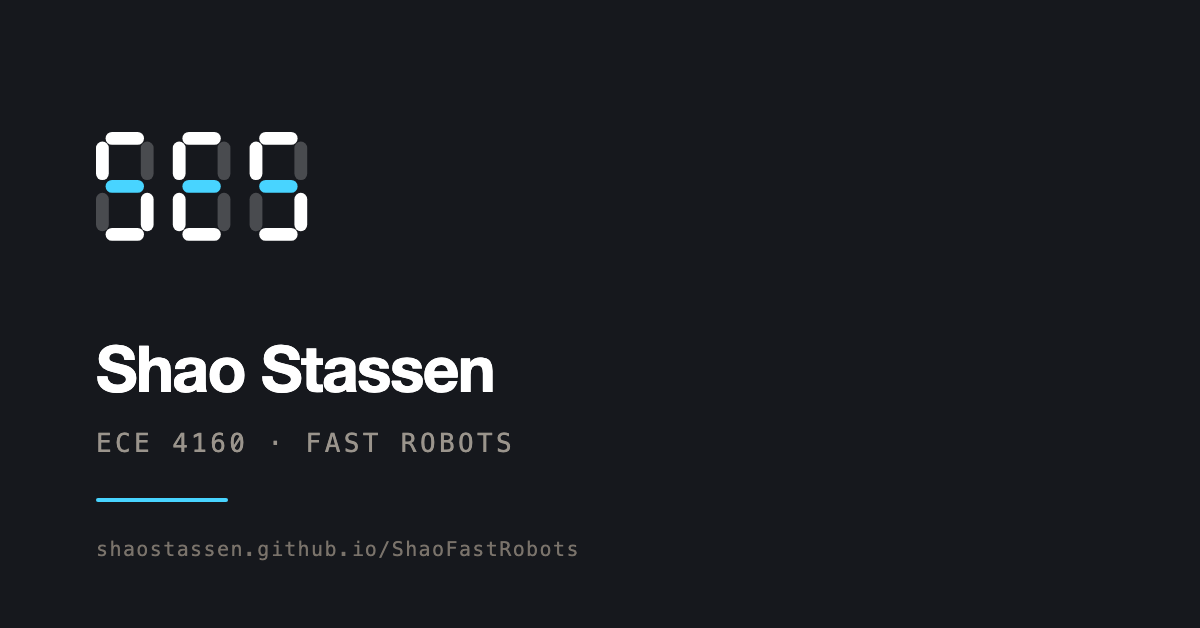
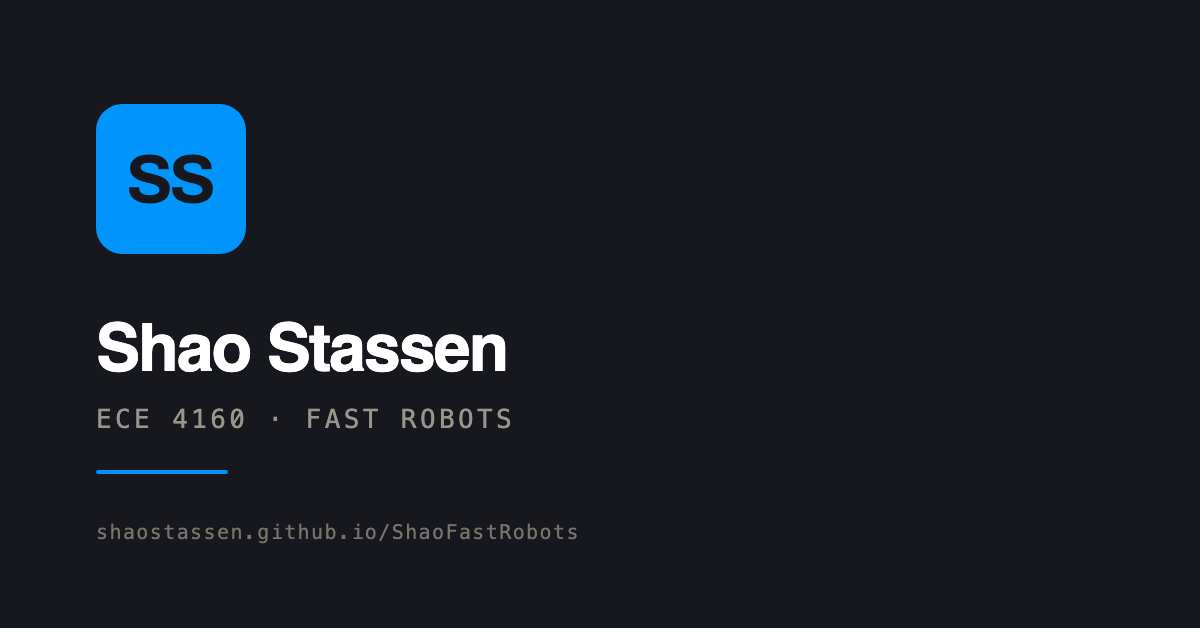
Swap the seven-segment mark for the SS chip
Replaces the SES identity throughout: favicon, apple-touch-icon, the 512
icon, the social card and the sidebar mark.

The letterforms are Archivo 700 converted to outlines rather than set as live
text. A logo should not wait on a webfont request or flash the wrong shapes
while one loads, and outlines also mean the favicon and the rasters are drawn
from exactly the same geometry as the on-site mark.

Geometry follows the spec: corner radius 17.6% of chip width, letters at ~46%
with -0.055em tracking, and the pair centred on its own ink rather than its
advance width, which is what the spec's padding-right nudge approximates.
Measured at 55.9% wide by 32.7% tall in the chip.

The chip and letters are class-driven so the sidebar takes the primary lockup
on light and the spec's inverse on dark, where an ink chip would sink into an
ink page. The social card had the same problem — an ink chip on the ink field
left the letters floating with no container — so it uses the inverse too.

Also adds avatar-400.png: full bleed with no corner radius, per the spec's note
that platforms apply their own crop.

Changed region(s): [[0.0617, 0.5143, 0.4317, 0.7564], [0.0617, 0.1513, 0.2775, 0.4236], [0.0617, 0.7866, 0.4933, 0.9076]]

diff --git a/static/docs.css b/static/docs.css
@@ -107,94 +107,42 @@ html.sidebar-hidden body:has(#docs-sidebar) main {
 	text-decoration: none;
 }
 
-/* The SES mark. 34px tall is the identity's 1x size, where every segment edge
-   lands on a whole pixel. Lit segments follow the text colour, the middle bar
-   follows the site accent, so it works in both themes. */
-#docs-sidebar .ses-mark {
+/* The SS chip. 44px in the sidebar; the spec's radius (17.6%) and letterform
+   outlines are baked into the SVG, so only colour is set here.
+   Light takes the primary lockup, dark takes the spec's inverse — an ink chip
+   would otherwise sink into an ink page. */
+#docs-sidebar .ss-mark {
 	display: block;
 	flex: none;
-	width: 66px;
-	height: 34px;
+	border-radius: 17.6%;
+	width: 44px;
+	height: 44px;
 }
 
-.ses-lit {
-	fill: currentColor;
+.ss-chip {
+	fill: #16181d;
 }
 
-.ses-bar {
+.ss-letters {
 	fill: var(--accent-color);
 }
 
-.ses-ghost {
-	opacity: 0.13;
-	fill: currentColor;
+[data-theme="dark"] .ss-chip {
+	fill: var(--accent-color);
 }
 
-/* Spec: ghosts rise to 22% on dark, where 13% disappears. */
-[data-theme="dark"] .ses-ghost {
-	opacity: 0.22;
+[data-theme="dark"] .ss-letters {
+	fill: #16181d;
 }
 
 @media (prefers-color-scheme: dark) {
-	:root:not([data-theme="light"]) .ses-ghost {
-		opacity: 0.22;
+	:root:not([data-theme="light"]) .ss-chip {
+		fill: var(--accent-color);
 	}
-}
 
-/* Collapse (« in the sidebar header) and expand (» pinned to the page edge).
-   Both are plain text glyphs, so they stay legible even if this stylesheet is
-   stale or missing. */
-#docs-sidebar .docs-sidebar-collapse,
-.docs-sidebar-expand {
-	display: flex;
-	flex: none;
-	align-items: center;
-	justify-content: center;
-	cursor: pointer;
-	transition: var(--transition);
-	box-shadow: none;
-	border: none;
-	background-color: var(--fg-muted-1);
-	padding: 0;
-	color: var(--fg-muted-5);
-	font-weight: 700;
-	font-size: var(--font-size-medium);
-	line-height: 1;
-	font-family: inherit;
-	user-select: none;
-}
-
-#docs-sidebar .docs-sidebar-collapse:hover,
-#docs-sidebar .docs-sidebar-collapse:focus-visible,
-.docs-sidebar-expand:hover,
-.docs-sidebar-expand:focus-visible {
-	background-color: var(--fg-muted-2);
-	color: var(--accent-color);
-}
-
-#docs-sidebar .docs-sidebar-collapse {
-	border-radius: var(--rounded-corner-small);
-	width: 1.875rem;
-	height: 1.875rem;
-}
-
-/* Only present while the sidebar is hidden; a tab against the left edge, at the
-   height the sidebar header used to occupy. */
-.docs-sidebar-expand {
-	display: none;
-	position: fixed;
-	z-index: 998;
-	inset-block-start: var(--docs-nav-clearance, 5.5rem);
-	inset-inline-start: 0;
-	box-shadow: var(--edge-highlight);
-	border-start-end-radius: var(--rounded-corner);
-	border-end-end-radius: var(--rounded-corner);
-	width: 1.75rem;
-	height: 2.75rem;
-}
-
-html.sidebar-hidden .docs-sidebar-expand {
-	display: flex;
+	:root:not([data-theme="light"]) .ss-letters {
+		fill: #16181d;
+	}
 }
 
 #docs-sidebar .docs-brand:hover .docs-brand-title {

diff --git a/templates/partials/ss-mark.html b/templates/partials/ss-mark.html
@@ -1,0 +1,8 @@
+{#- The SS chip: two S's knocked out of a rounded chip, per the SS identity.
+    Letterforms are Archivo 700 converted to outlines, so the logo never waits
+    on a webfont or falls back to the wrong shapes.
+
+    Chip and letters are class-driven so the mark can take the primary lockup on
+    light (ink chip, blue letters) and the spec's inverse on dark (blue chip,
+    ink letters), where an ink chip would sink into an ink page. -#}
+<svg class="ss-mark" viewBox="0 0 100 100" role="img" aria-label="Shao Stassen"><rect class="ss-chip" width="100" height="100" rx="17.60"/><g class="ss-letters" transform="translate(19.985 65.778) scale(0.046000 -0.046000)"><path d="M343 -12Q283 -12 229.0 0.0Q175 12 133.5 38.5Q92 65 68.5 105.5Q45 146 45 204Q45 209 45.0 214.5Q45 220 46 223H194Q193 220 193.0 215.0Q193 210 193 206Q193 174 210.5 152.0Q228 130 262.0 119.0Q296 108 341 108Q370 108 392.5 111.5Q415 115 432.5 121.5Q450 128 461.5 137.0Q473 146 478.5 158.0Q484 170 484 185Q484 212 466.5 229.0Q449 246 418.5 258.0Q388 270 350.0 280.0Q312 290 272.0 300.5Q232 311 194.0 326.5Q156 342 126.0 364.0Q96 386 78.0 420.0Q60 454 60 502Q60 553 81.5 590.0Q103 627 142.0 651.0Q181 675 232.0 686.5Q283 698 343 698Q399 698 449.0 686.5Q499 675 537.0 650.0Q575 625 596.5 587.0Q618 549 618 497V485H473V493Q473 520 457.0 539.0Q441 558 412.0 569.0Q383 580 344 580Q302 580 272.5 572.0Q243 564 227.5 548.5Q212 533 212 512Q212 488 229.5 472.5Q247 457 277.5 445.5Q308 434 346.0 425.0Q384 416 424.0 405.0Q464 394 502.0 379.0Q540 364 570.0 341.5Q600 319 618.0 286.0Q636 253 636 207Q636 128 598.0 80.0Q560 32 494.0 10.0Q428 -12 343 -12Z"/><path d="M343 -12Q283 -12 229.0 0.0Q175 12 133.5 38.5Q92 65 68.5 105.5Q45 146 45 204Q45 209 45.0 214.5Q45 220 46 223H194Q193 220 193.0 215.0Q193 210 193 206Q193 174 210.5 152.0Q228 130 262.0 119.0Q296 108 341 108Q370 108 392.5 111.5Q415 115 432.5 121.5Q450 128 461.5 137.0Q473 146 478.5 158.0Q484 170 484 185Q484 212 466.5 229.0Q449 246 418.5 258.0Q388 270 350.0 280.0Q312 290 272.0 300.5Q232 311 194.0 326.5Q156 342 126.0 364.0Q96 386 78.0 420.0Q60 454 60 502Q60 553 81.5 590.0Q103 627 142.0 651.0Q181 675 232.0 686.5Q283 698 343 698Q399 698 449.0 686.5Q499 675 537.0 650.0Q575 625 596.5 587.0Q618 549 618 497V485H473V493Q473 520 457.0 539.0Q441 558 412.0 569.0Q383 580 344 580Q302 580 272.5 572.0Q243 564 227.5 548.5Q212 533 212 512Q212 488 229.5 472.5Q247 457 277.5 445.5Q308 434 346.0 425.0Q384 416 424.0 405.0Q464 394 502.0 379.0Q540 364 570.0 341.5Q600 319 618.0 286.0Q636 253 636 207Q636 128 598.0 80.0Q560 32 494.0 10.0Q428 -12 343 -12Z" transform="translate(624 0)"/></g></svg>

diff --git a/templates/partials/docs-sidebar.html b/templates/partials/docs-sidebar.html
@@ -12,7 +12,7 @@
 	<div class="docs-sidebar-inner">
 		<div class="docs-sidebar-head">
 			<a class="docs-brand" href="{{ get_url(path='/', lang=lang) }}">
-				{%- include "partials/ses-mark.html" -%}
+				{%- include "partials/ss-mark.html" -%}
 				<span class="docs-brand-title">{{ config.title }}</span>
 				{%- if config.author %}
 					<span class="docs-brand-subtitle">{{ config.author }}</span>
